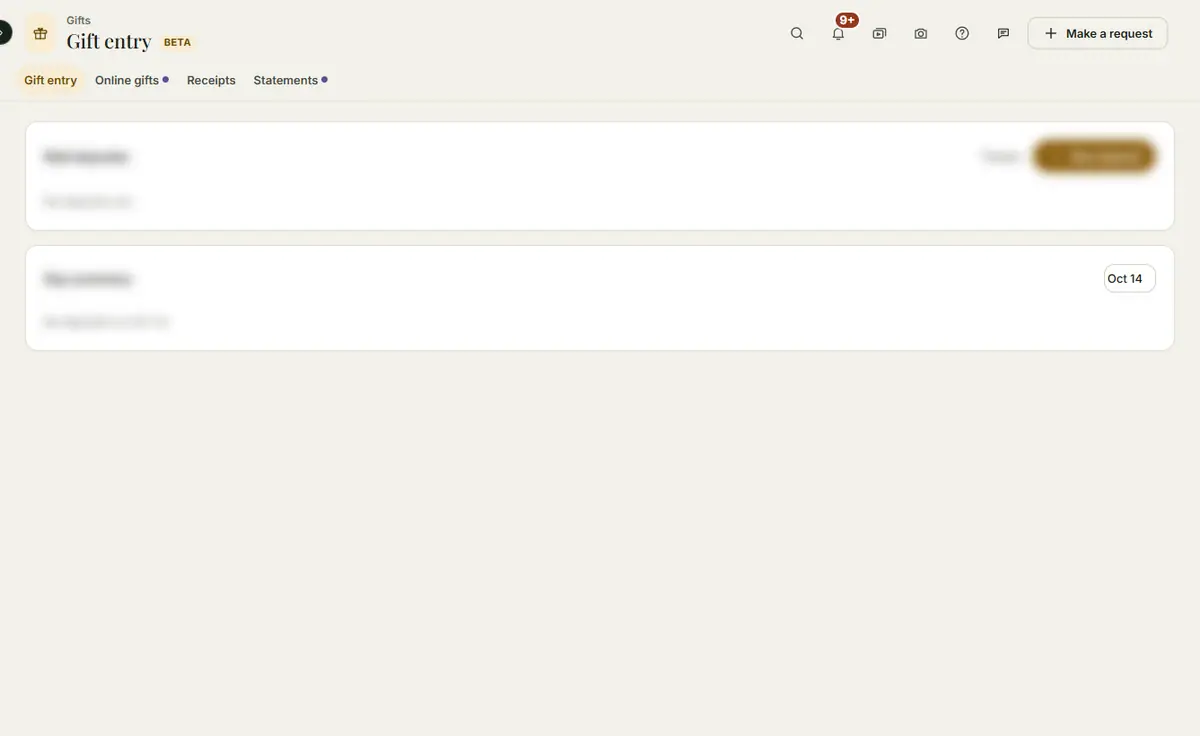
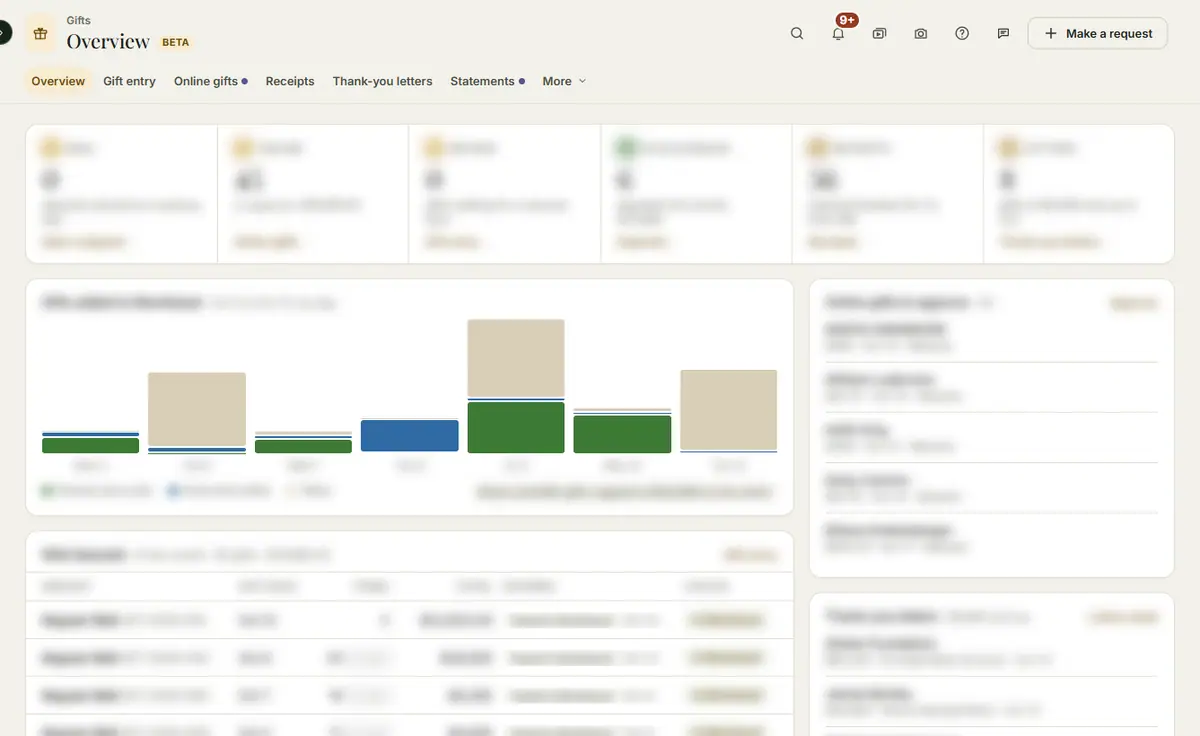
Gifts: Thank-you letters and Declines leave the Work Center (old links land on the Gifts pages, Support starts on Entry); swaps wait only for first reads, 900 ms at most each

diff --git a/src/scripts/tours.ts b/src/scripts/tours.ts
@@ -1592,11 +1592,10 @@ export const STEPS: Step[] = [
   },
   {
     id: 'hqty-letters',
-    page: '/work/',
-    via: 'work',
-    press: '.wc-tab[data-view="hqty"]',
+    page: '/gifts/letters/',
+    via: 'letters',
     at: '#hq-sheet',
-    title: 'HQTY letters',
+    title: 'Thank-you letters',
     body: 'Every gift of $5,000 and up, newest first, with the partner it is credited to and where its letter stands. Print makes one PDF with a page per letter. {Tap} Signed when they are signed and Mark mailed when they go out, and Blackbaud gets one HQTY Letter action for each. The month button edits the letter text once for the whole month. Cannot send takes a gift off the list with a reason. Signed by picks who signs each letter: Terry Goodman, Carole Ward, Rachel Cox, Michael Hinton, or the partner’s Regional Development Director. A letter with no pick takes its partner’s RDD, and otherwise the last signer you picked. Use the bar to set one signer for every selected letter still To write.',
     for: (w) => w.admin || w.work,
     added: '2026-10-10',
@@ -1643,9 +1642,8 @@ export const STEPS: Step[] = [
   {
     id: 'work-declines',
     skipIfMissing: true,
-    page: '/work/',
-    via: 'work',
-    press: '.wc-tab[data-view="declines"]',
+    page: '/gifts/declines/',
+    via: 'declines',
     at: '.wfn-row',
     title: 'Declined payments',
     body: 'Every declined monthly payment and every gift set to zero from the last 90 days, with the reason the card processor gave. Hard rejects need a new card. {Tap} Log, pick how you followed up and where it stands, and Blackbaud gets an Information Update on the partner. A decline clears itself when a later payment on the same schedule goes through.',

diff --git a/public/js/hub-swap.js b/public/js/hub-swap.js
@@ -245,6 +245,7 @@
   function settle(main) {
     if (settling) settling.finish();
     main.classList.add('is-settling');
+    const t0 = performance.now();
     const of = window.fetch;
     let pending = 0, done = false, quietT = 0;
     const finish = () => {
@@ -261,7 +262,8 @@
       let ours = false;
       try { const u = new URL(typeof input === 'string' ? input : (input && input.url) || '', location.href); ours = !done && u.origin === location.origin && u.pathname.indexOf('/api/') === 0; } catch (e) { ours = false; }
       const p = of.apply(this, arguments);
-      if (ours) { pending++; clearTimeout(quietT); const end = () => { pending = Math.max(0, pending - 1); quiet(); }; p.then(end, end); }
+      // Only the reads a page starts in its first moments hold it, each for at most 900 ms: a long poll or a presence read (Chat) never does.
+      if (ours && performance.now() - t0 < 600) { pending++; clearTimeout(quietT); let ended = false; const end = () => { if (ended) return; ended = true; pending = Math.max(0, pending - 1); quiet(); }; p.then(end, end); setTimeout(end, 900); }
       return p;
     };
     window.fetch = wrapped;
@@ -272,7 +274,7 @@
       body[k] = RP[k];
       RP[k] = function () {
         const q = body[k].apply(this, arguments);
-        if (!done) { pending++; clearTimeout(quietT); const end = () => { pending = Math.max(0, pending - 1); quiet(); }; q.then(end, end); }
+        if (!done && performance.now() - t0 < 1200) { pending++; clearTimeout(quietT); let ended = false; const end = () => { if (ended) return; ended = true; pending = Math.max(0, pending - 1); quiet(); }; q.then(end, end); setTimeout(end, 900); }
         return q;
       };
     });

diff --git a/functions/_lib/admin/settings.ts b/functions/_lib/admin/settings.ts
@@ -162,15 +162,13 @@ export const START_TABS: Opt[] = [
   { value: 'gifts', label: 'Gifts to thank' },
   { value: 'asks', label: 'Asks' },
   { value: 'cadence', label: 'Cadence' },
-  { value: 'hqty', label: 'HQTY letters' },
-  { value: 'declines', label: 'Declines' },
   { value: 'grants', label: 'Grants' },
   { value: 'giftimages', label: 'Gift images' },
 ];
 export const START_ROLES: Array<{ role: string; label: string; def: string }> = [
   { role: 'admin', label: 'Admin', def: 'open' },
   { role: 'director', label: 'Directors', def: 'gifts' },
-  { role: 'support', label: 'Support Team', def: 'hqty' },
+  { role: 'support', label: 'Support Team', def: 'intake' },
   { role: 'partner_care', label: 'Partner Care', def: 'cadence' },
   { role: 'grants', label: 'Grants writers', def: 'open' },
 ];

diff --git a/public/js/work-hqty.js b/public/js/work-hqty.js
@@ -349,5 +349,6 @@ document.addEventListener('click', (ev) => { const t = ev.target.closest && ev.t
 document.addEventListener('favor:thanked-undone', () => { if (H.data) reload(); });
 
 window.WCHqty = { H, view, count };
-window.WCTabs.registerTab({ id: 'hqty', label: 'HQTY letters', roles: ['support'], after: 'open', count: () => count(), mount: () => view(), warm: () => start() });
+// Thank-you letters moved to Gifts > Thank-you letters (2026-10-14): the tab registers only on that page (gifts-wc-shim.js).
+if (window.WCTabs && window.WCTabs.standIn) window.WCTabs.registerTab({ id: 'hqty', label: 'HQTY letters', roles: ['support'], after: 'open', count: () => count(), mount: () => view(), warm: () => start() });
 })();

diff --git a/public/js/work-declines.js b/public/js/work-declines.js
@@ -202,7 +202,8 @@ document.addEventListener('input', (e) => {
 // An undo of a follow-up (the toast's Undo is shared with the other tabs) puts the row back.
 document.addEventListener('favor:thanked-undone', async () => { if (!D.started) return; await load(); W().render(); });
 
-if (window.WCTabs) {
+// Declines moved to Gifts > Declines (2026-10-14): the tab registers only on that page (gifts-wc-shim.js).
+if (window.WCTabs && window.WCTabs.standIn) {
   window.WCTabs.registerTab({ id: 'declines', label: 'Declines', roles: ['partner_care', 'support'], after: 'open', count: () => count(), mount: () => view(), warm: () => start() });
 }
 window.WCDeclines = { start, view, count, D };

diff --git a/functions/_lib/work/role.ts b/functions/_lib/work/role.ts
@@ -102,6 +102,6 @@ export function mayAssignTo(s: Scope | undefined, fid: string, teamOf: (fid: str
 }
 
 /** The tab the Work Center opens on before a person picks their own (Group 0, 2026-10-10). The ids are the ones tabs register with. */
-export const DEFAULT_TAB: Record<Role, string> = { admin: 'open', director: 'gifts', support: 'hqty', partner_care: 'cadence', grants: 'open' };
+export const DEFAULT_TAB: Record<Role, string> = { admin: 'open', director: 'gifts', support: 'intake', partner_care: 'cadence', grants: 'open' };
 export const START_SCOPES = ['mine', 'partners', 'all'] as const;
 export type StartScope = (typeof START_SCOPES)[number];

diff --git a/public/js/work.js b/public/js/work.js
@@ -9,6 +9,8 @@ const esc = (s) => String(s == null ? '' : s).replace(/[&<>"']/g, (c) => ({ '&':
 const root = document.getElementById('wc-root');
 if (!root) return;
 const QS = new URLSearchParams(location.search);
+// Thank-you letters and Declines live in Gifts since 2026-10-14; an old link to their Work Center tab lands on the new page.
+{ const mv = { hqty: '/gifts/letters/', declines: '/gifts/declines/' }[QS.get('view') || QS.get('tab') || '']; if (mv) { location.replace(mv); return; } }
 const AS = QS.get('as') || '';
 
 // ------------------------------------------------------------ talking to the hub

diff --git a/src/content/changelog/2026-10-14.md b/src/content/changelog/2026-10-14.md
@@ -9,6 +9,24 @@ entries:
     area: meetings
     type: new
     text: "You can turn on follow-up email drafts in Meeting prep settings. After a meeting with people outside Favor, a short email to them from the notes and action items opens in the composer for you to edit and send. It is off unless you turn it on, and it never sends by itself."
+  - time: "19:20"
+    area: gifts
+    type: new
+    text: "Gifts has an Overview: the gift day on one screen. You can see the deposits started today, the online gifts to approve, the gifts waiting for a second look, this month's deposits in Blackbaud, the receipts marked thanked and the gifts of $5,000 and up for letters. A chart shows what Blackbaud took in each weekday, and the month's deposits, online gifts and newest letters sit beside it."
+    image: /changelog/2026-10-14/gifts-overview-desk.webp
+    phone: /changelog/2026-10-14/gifts-overview-phone.webp
+  - time: "19:20"
+    area: gifts
+    type: improved
+    text: "Gift entry shows the whole month of mail. Every deposit is listed, including the batches typed straight into Blackbaud, with the gift date, items, cash, total and status. You can start today's deposit from the top of the page: pick the type, type the tape total and the count, and press Start photographing."
+  - time: "19:20"
+    area: gifts
+    type: improved
+    text: "An open deposit shows the tape, what is entered, what is approved and what needs a look in one band, with Send to Blackbaud beside it once every gift is approved. The gifts are listed with a dot for each one's state. Under the photo you see the partner's gifts before this one, lifetime total and last gift. A gift of $5,000 and up, a personal contact appeal and a first gift each say so."
+  - time: "19:20"
+    area: gifts
+    type: improved
+    text: "Thank-you letters (the handwritten letters for gifts of $5,000 and up) and Declines moved from the Work Center into Gifts, each on its own page."
   - time: "18:45"
     area: brain
     type: new
